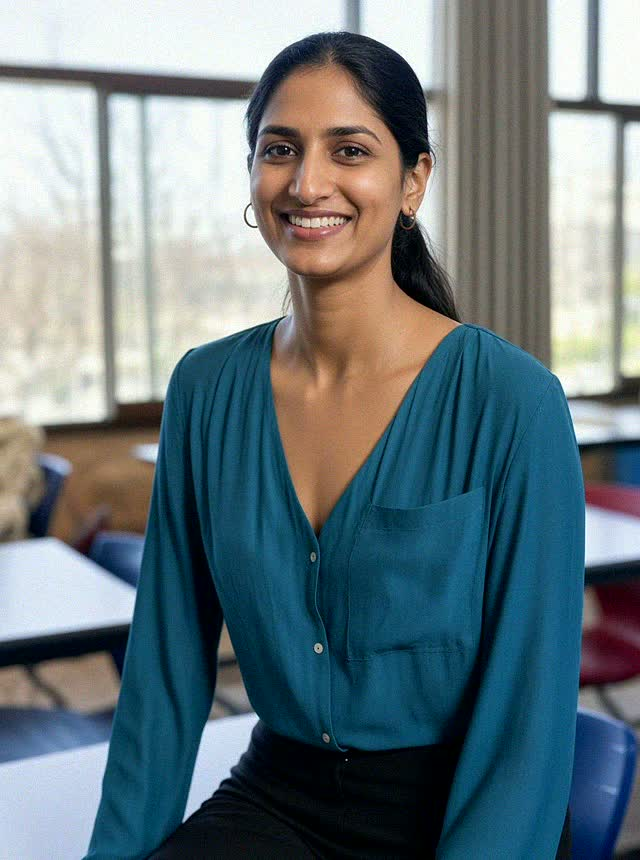
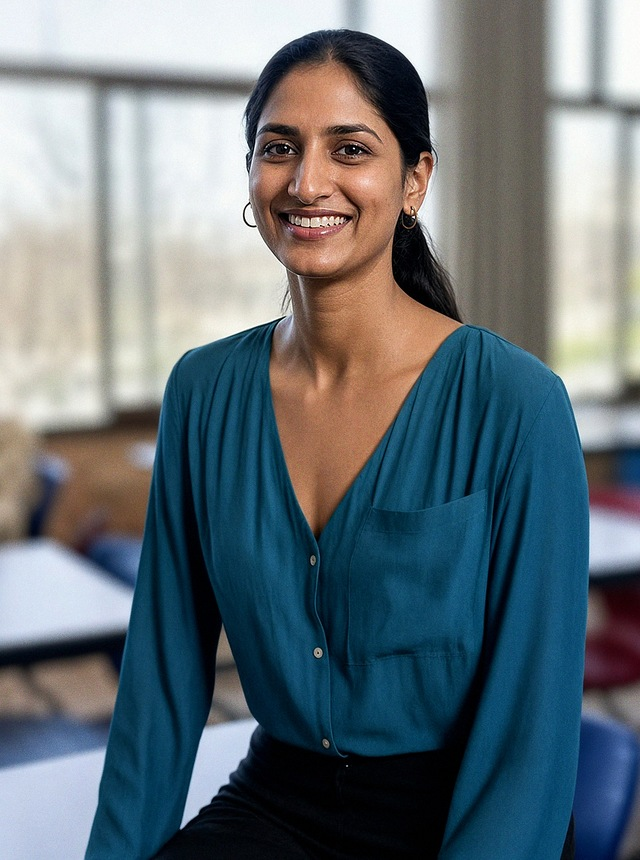
Redo Neha and Aarav instructor DPs for phone realism
Replace both portraits to match Isha/ref skin texture (pores, sheen, grain, flyaways) while keeping role cues; cache-bust desk111 / v=4 / v=5.

diff --git a/js/app.js b/js/app.js
@@ -808,8 +808,8 @@ const COVERS = {
 };
 
 const MENTORS = [
-  { name: "Aarav Mehta", role: "Full-time trader", tag: "Intraday", img: "/img/instructors/aarav-mehta.jpg?v=4" },
-  { name: "Neha Kapoor", role: "Options specialist", tag: "Income strategies", img: "/img/instructors/neha-kapoor.jpg?v=3" },
+  { name: "Aarav Mehta", role: "Full-time trader", tag: "Intraday", img: "/img/instructors/aarav-mehta.jpg?v=5" },
+  { name: "Neha Kapoor", role: "Options specialist", tag: "Income strategies", img: "/img/instructors/neha-kapoor.jpg?v=4" },
   { name: "Vikram Singh", role: "Price action coach", tag: "Swing trading", img: "https://images.unsplash.com/photo-1506794778202-cad84cf45f1d?auto=format&fit=crop&w=640&h=860&q=80" },
   { name: "Ananya Rao", role: "Long-term investor", tag: "Portfolio", img: "https://images.unsplash.com/photo-1573496359142-b8d87734a5a2?auto=format&fit=crop&w=640&h=860&q=80" },
   { name: "Kabir Joshi", role: "Index options", tag: "Bank Nifty", img: "https://images.unsplash.com/photo-1507003211169-0a1dd7228f2d?auto=format&fit=crop&w=640&h=860&q=80" },
@@ -4897,6 +4897,7 @@ function traderIcon(kind) {
 /* cache-bust desk108: Neha Kapoor instructor DP outdoor teal /img/instructors/neha-kapoor.jpg?v=1 */
 /* cache-bust desk109: Neha Kapoor DP redo indoor classroom phone-real r2-c5 /img/instructors/neha-kapoor.jpg?v=2 */
 /* cache-bust desk110: Neha Kapoor DP phone-grain pass indoor r2-c5 /img/instructors/neha-kapoor.jpg?v=3 */
+/* cache-bust desk111: Neha+Aarav instructor DPs Isha/ref phone realism /img/instructors/neha-kapoor.jpg?v=4 /img/instructors/aarav-mehta.jpg?v=5 */
 function traderCardHTML(m, i, opts = {}) {
   const title = String(m.role || m.tag || "Mentor").trim();
   const cloneAttrs = opts.clone ? ' tabindex="-1" aria-hidden="true"' : "";

diff --git a/account.html b/account.html
@@ -17,7 +17,7 @@
   <div id="site-header"></div>
   <main id="accountRoot" class="ld-page"></main>
   <div id="site-footer"></div>
-  <script src="/js/app.js?v=desk110" defer></script>
+  <script src="/js/app.js?v=desk111" defer></script>
   <script src="/js/lms.js?v=cert2" defer></script>
 </body>
 </html>

diff --git a/learning.html b/learning.html
@@ -17,7 +17,7 @@
   <div id="site-header"></div>
   <main id="myLearning" class="ld-page"></main>
   <div id="site-footer"></div>
-  <script src="/js/app.js?v=desk110" defer></script>
+  <script src="/js/app.js?v=desk111" defer></script>
   <script src="/js/lms.js?v=cert2" defer></script>
 </body>
 </html>

diff --git a/course.html b/course.html
@@ -22,7 +22,7 @@
     </div>
   </main>
   <div id="site-footer"></div>
-  <script src="/js/app.js?v=desk110" defer></script>
+  <script src="/js/app.js?v=desk111" defer></script>
   <script src="/js/lms.js?v=cert2" defer></script>
   <script src="/js/drm.js?v=desk29" defer></script>
 </body>

diff --git a/contact.html b/contact.html
@@ -48,7 +48,7 @@
   </main>
   <div id="site-footer"></div>
   <script src="/js/help-faqs.js?v=faq1" defer></script>
-  <script src="/js/app.js?v=desk110" defer></script>
+  <script src="/js/app.js?v=desk111" defer></script>
   <script src="/js/lms.js" defer></script>
 </body>
 </html>

diff --git a/certificate.html b/certificate.html
@@ -19,7 +19,7 @@
     <div id="certRoot"></div>
   </main>
   <div id="site-footer"></div>
-  <script src="/js/app.js?v=desk110" defer></script>
+  <script src="/js/app.js?v=desk111" defer></script>
   <script src="/js/lms.js?v=cert2" defer></script>
 </body>
 </html>

diff --git a/control.html b/control.html
@@ -253,7 +253,7 @@
         loading = true;
         busy(true);
         var files = [
-          "/js/app.js?v=desk110",
+          "/js/app.js?v=desk111",
           "/js/lms.js",
           "/js/admin-core.js?v=desk8",
           "/js/admin.js?v=drm5",

diff --git a/index.html b/index.html
@@ -415,7 +415,7 @@
     </section>
   </main>
   <div id="site-footer"></div>
-  <script src="/js/app.js?v=desk110" defer></script>
+  <script src="/js/app.js?v=desk111" defer></script>
   <script src="/js/lms.js?v=cert2" defer></script>
 </body>
 </html>

diff --git a/live-room.html b/live-room.html
@@ -22,7 +22,7 @@
 </head>
 <body class="live-room-page">
   <div id="liveRoom"></div>
-  <script src="/js/app.js?v=desk110" defer></script>
+  <script src="/js/app.js?v=desk111" defer></script>
   <script src="/js/lms.js" defer></script>
 </body>
 </html>

diff --git a/nifty-options.html b/nifty-options.html
@@ -44,7 +44,7 @@
     </section>
   </main>
   <div id="site-footer"></div>
-  <script src="/js/app.js?v=desk110" defer></script>
+  <script src="/js/app.js?v=desk111" defer></script>
   <script src="/js/lms.js?v=cert2" defer></script>
 </body>
 </html>

diff --git a/option-trading-course.html b/option-trading-course.html
@@ -44,7 +44,7 @@
     </section>
   </main>
   <div id="site-footer"></div>
-  <script src="/js/app.js?v=desk110" defer></script>
+  <script src="/js/app.js?v=desk111" defer></script>
   <script src="/js/lms.js?v=cert2" defer></script>
 </body>
 </html>

diff --git a/share-market-course-in-hindi.html b/share-market-course-in-hindi.html
@@ -42,7 +42,7 @@
     </section>
   </main>
   <div id="site-footer"></div>
-  <script src="/js/app.js?v=desk110" defer></script>
+  <script src="/js/app.js?v=desk111" defer></script>
   <script src="/js/lms.js?v=cert2" defer></script>
 </body>
 </html>
